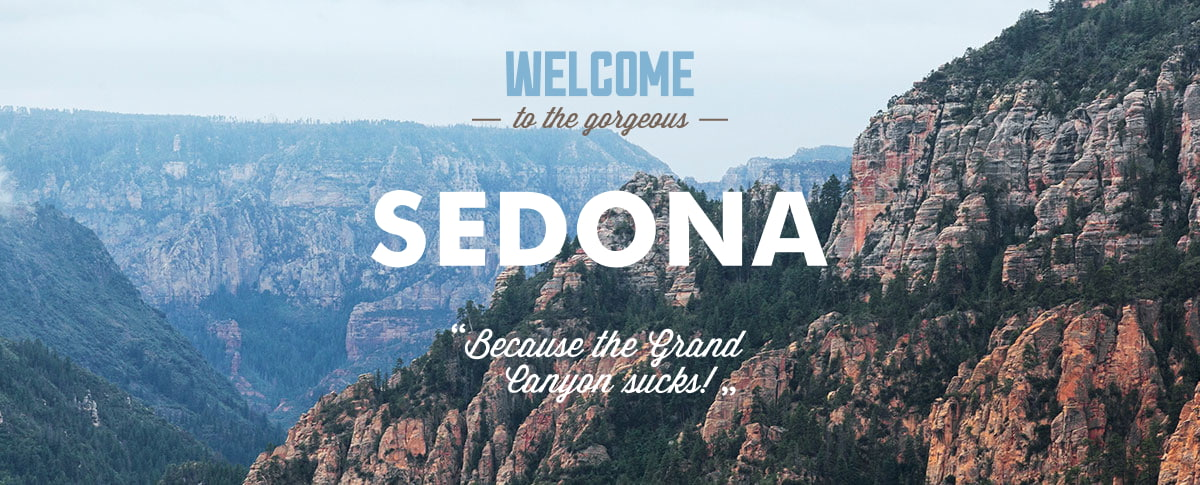
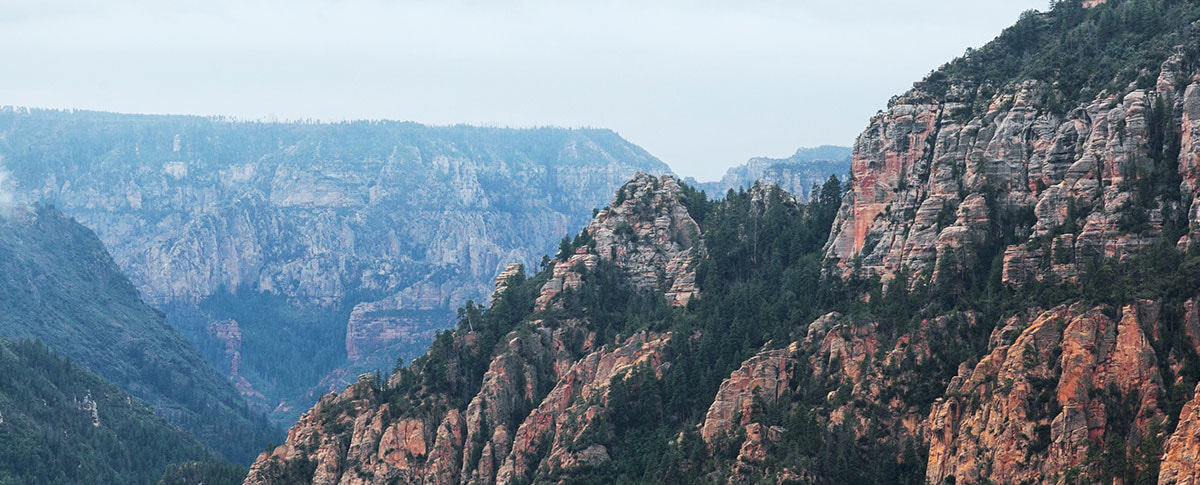
базовая стилизация

Changed region(s): [[0.3083, 0.3711, 0.7092, 0.5567], [0.4008, 0.0928, 0.5858, 0.2784], [0.37, 0.6495, 0.6167, 0.8351]]

diff --git a/styles/styles.css b/styles/styles.css
@@ -2,28 +2,26 @@
   font-family: "PT Sans";
   font-style: normal;
   font-weight: 400;
-  src: url("../fonts/pt-sans-regular.woff2") format("woff2");
+  src: url("../fonts/ptsans-400.woff2") format("woff2");
   font-display: swap;
 }
 
 @font-face {
   font-family: "PT Sans";
-  font-style: normal;
+  font-style: bold;
   font-weight: 700;
-  src: url("../fonts/pt-sans-bold.woff2") format("woff2");
+  src: url("../fonts/ptsans-700.woff2") format("woff2");
   font-display: swap;
 }
 
 body {
-  font-family: "PT Sans" sans-serif;
+  font-family: "PT Sans", sans-serif;
   font-size: 18px;
   line-height: 21px;
   color: #333333;
-  background-color: #83B3D3;
+  background-color: rgba(131, 179, 211, 0.12);
 }
 
-
-/* Pages */
 
 .page-header {
   color: #000000;
@@ -39,9 +37,28 @@ body {
   text-decoration: none;
 }
 
+.welcome {
+  width: auto;
+  height: 485px;
+background-image: url(../images/graphic/divider.svg), url(../images/graphic/welcome.svg), url("../images/index-background.jpg");
+background-repeat: no-repeat;
+background-position: bottom, center, center;
+background-size: 100% auto, 458px auto, 100% auto;
+background-color: #ccc;
+}
+
+
 .hero {
-background-image: url("../images/index-background.jpg");
-background-size: 100% auto;
+background-color: #FFFFFF;
+}
+
+
+.hero-title {
+  text-transform: uppercase;
+}
+
+.features {
+  background-color: #ccc;
 }
 
 .features-item-blue-leftpic {
@@ -79,6 +96,7 @@ background-size: 100% auto;
   line-height: 28px;
   font-size: 24px;
   color: #000000;
+  text-transform: uppercase;
 }
 
 .features-description-black {
@@ -91,8 +109,22 @@ background-size: 100% auto;
 .advantages-list {
   text-align: center;
   list-style-type: none;
+}
+
+.advantages-title-black {
+  text-transform: uppercase;
 
 }
+
+/* .advantages-title-black::before {
+  content: '';
+  position: absolute;
+left: -20px;
+  height: 72px;
+  width: 72px;
+  background-color: red;
+  background-image: url(../images/graphic/house.svg);
+} */
 
 .search-hotels {
   background-color: #FFFFFF;
@@ -105,6 +137,7 @@ background-size: 100% auto;
   line-height: 36px;
   color: #000000;
   text-align: center;
+  text-transform: uppercase;
 }
 
 .search-description {
@@ -121,6 +154,7 @@ background-size: 100% auto;
   line-height: 36px;
   color: #FFFFFF;
   text-align: center;
+  text-transform: uppercase;
 }
 
 .subscribe-description {
@@ -131,10 +165,15 @@ background-size: 100% auto;
   text-align: center;
 }
 
-.subscribe-form {
+.subscribe {
   background-image: url("../images/background-subscribe.jpg");
-  text-align: center;
+  background-color: #ccc;
+  background-position: center;
   background-size: 100% auto;
+}
+
+.subscribe-form {
+  text-align: center;
 }
 
 .footer-contacts-phone {
@@ -147,6 +186,7 @@ background-size: 100% auto;
   text-decoration: none;
 }
 
+
 .page-footer {
   background-color: #FFFFFF;
   color: #000000;
@@ -156,4 +196,18 @@ background-size: 100% auto;
 .page-footer a {
   color: #000000;
   text-decoration: none;
+}
+
+.button {
+padding: 8px 34px;
+background-color: #756157;
+color: #FFF;
+font-weight: 700;
+font-size: 16px;
+line-height: 20px;
+text-align: center;
+text-transform: uppercase;
+border: none;
+border-radius: 4px;
+cursor: pointer;
 }

diff --git a/index.html b/index.html
@@ -24,17 +24,19 @@
         <a class="navigation-link" href="#">
           <span class="visually-hidden">Избранное</span>
         </a>
-        <button class="button navigation-button">Хочу сюда!</button>
+        <button class="button navigation-button" >Хочу сюда!</button>
       </div>
     </nav>
   </header>
 
   <main class="main-index">
-    <h1 class="visually-hidden">Добро пожаловать!</h1>
+    <div class="welcome">
+      <h1 class="visually-hidden">Добро пожаловать!</h1>
+    </div>
 
     <section class="hero">
-      <h2 class="hero-title" >Седона — небольшой городок в Аризоне,заслуживающий большего!</h2><br>
-      <p class="hero-description">Рассмотрим причины, по которым Седона круче, чем Гранд-Каньон!</p>
+        <h2 class="hero-title" >Седона — небольшой городок в Аризоне,заслуживающий большего!</h2>
+        <p class="hero-description">Рассмотрим причины, по которым Седона круче, чем Гранд-Каньон!</p>
     </section>
 
     <section class="features">
@@ -69,7 +71,7 @@
         <ul class="advantages-list">
         <li class="advantages-item-light-blue">
           <h3 class="advantages-title-black">Жильё</h3>
-          <p class="advantages-description-black">Рекомендуем пожитьв настоящем мотеле, всё как в кино!</p>
+          <p class="advantages-description-black">Рекомендуем пожить в настоящем мотеле, всё как в кино!</p>
         </li>
         <li class="advantages-item-white">
           <h3 class="advantages-title-black">Еда</h3>
@@ -88,12 +90,14 @@
       <a class="button button-search" href="#">Поиск гостиницы в Седоне</a>
     </section>
 
+    <section class="subscribe">
       <form class="subscribe-form" action="https://echo.htmlacademy.ru/" method="post">
         <h2 class="subscribe-title">Подпишитесь на рассылку</h2>
         <p class="subscribe-description">Только полезная информация и никакого спама, честное бойскаутское!</p>
         <input class="subscribe-field" type="email" name="subscribe-email" id="subscribe-email" placeholder="Ваш e-mail">
         <button class="button subscribe-button" type="submit">Подписаться</button>
       </form>
+    </section>
   </main>
 
   <footer class="page-footer">
